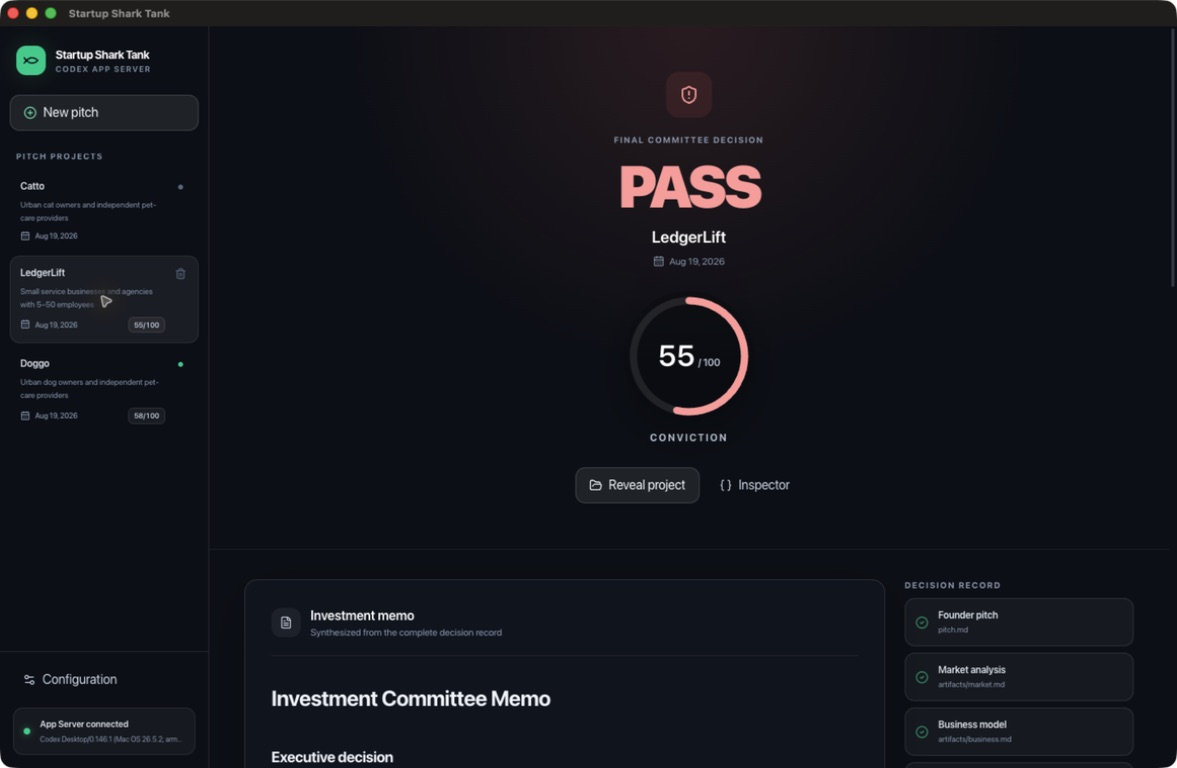
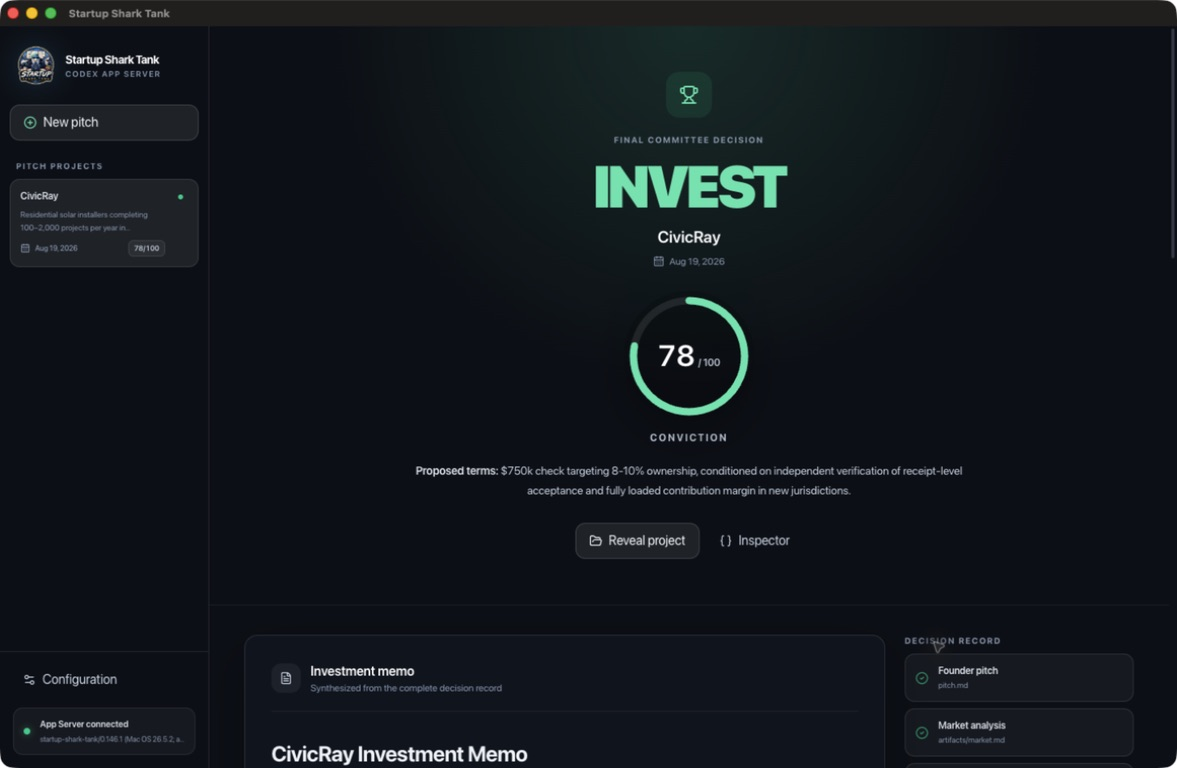
feat(presets): replace Doggo with CivicRay example pitch

diff --git a/src/renderer/src/data/pitchPresets.ts b/src/renderer/src/data/pitchPresets.ts
@@ -7,12 +7,13 @@ export type PitchPreset = {
 };
 
 export const defaultPitchPreset: PitchPreset = {
-  id: "doggo",
-  name: "Doggo",
-  category: "Consumer marketplace",
-  targetMarket: "Urban dog owners and independent pet-care providers",
+  id: "civicray",
+  name: "CivicRay",
+  category: "Vertical SaaS",
+  targetMarket:
+    "Residential solar installers completing 100–2,000 projects per year in fragmented U.S. permitting markets",
   pitch:
-    "Doggo is a trusted marketplace that helps urban dog owners find vetted, available walkers in minutes. Owners get consistent care, live walk updates, and simple recurring bookings; independent walkers get predictable local demand and tools to run their business. We start neighborhood by neighborhood, charge a fee on each booking, and build trust through verified identities, service history, and transparent quality signals.",
+    "CivicRay is the permit operations platform for residential solar installers. It turns system designs and address data into jurisdiction-specific checklists and submission-ready permit packages, then learns from verified reviewer corrections to keep local requirements current. Over the last nine months, 24 paying installers processed 6,800 permits through CivicRay; 93% were accepted on the first submission versus 61% before adoption, and median preparation time fell from 110 to 18 minutes. CivicRay has $42k in monthly recurring revenue, 88% gross margin, 124% six-month net revenue retention, and 4.5-month customer acquisition payback. It charges a platform subscription plus a per-project fee and expands from permitting into inspections and utility interconnection.",
 };
 
 export const pitchPresets: PitchPreset[] = [

diff --git a/README.md b/README.md
@@ -19,16 +19,16 @@
 
 Turn a startup pitch into an inspectable **INVEST** or **PASS** decision. Independent Codex agents analyze the opportunity, challenge each other through shared files, pause for founder input, and produce one auditable investment memo.
 
-![LedgerLift workflow paused for founder questions](docs/images/workflow-q-and-a.png)
+![CivicRay workflow paused for founder questions](docs/images/workflow-q-and-a.png)
 
 <table>
   <tr>
     <td width="50%" align="center">
-      <img src="docs/images/new-pitch.png" alt="LedgerLift example selected in the editable New Pitch form">
+      <img src="docs/images/new-pitch.png" alt="CivicRay example selected in the editable New Pitch form">
       <br><sub><strong>Start with an editable example pitch</strong></sub>
     </td>
     <td width="50%" align="center">
-      <img src="docs/images/final-verdict.png" alt="LedgerLift PASS verdict with a circular conviction score and investment memo">
+      <img src="docs/images/final-verdict.png" alt="CivicRay INVEST verdict with a circular conviction score and investment memo">
       <br><sub><strong>Finish with a complete decision record</strong></sub>
     </td>
   </tr>
@@ -49,7 +49,7 @@ pnpm dev
 
 `pnpm dev` also restores the matching Electron runtime automatically when the local dependency store was recreated or relinked.
 
-Choose **Doggo** or **LedgerLift**, edit the pitch if desired, and start the investment review.
+Choose **CivicRay** or **LedgerLift**, edit the pitch if desired, and start the investment review.
 
 ## Build the macOS app
 
@@ -272,7 +272,7 @@ pnpm build
 git diff --check
 ```
 
-For a full walkthrough, complete a LedgerLift run, use or edit a generated founder-answer draft, exercise Stop and Resume, inspect both parallel phases, and confirm the final memo and score in the sidebar.
+For a full walkthrough, complete a CivicRay run, use or edit a generated founder-answer draft, exercise Stop and Resume, inspect both parallel phases, and confirm the final memo and score in the sidebar.
 
 This is a local-first macOS app. Release signing and notarization require the distributor's Apple Developer credentials. It intentionally has no database, cloud queue, custom login flow, generic form builder, protocol playground, or synthetic approval probe.
 
